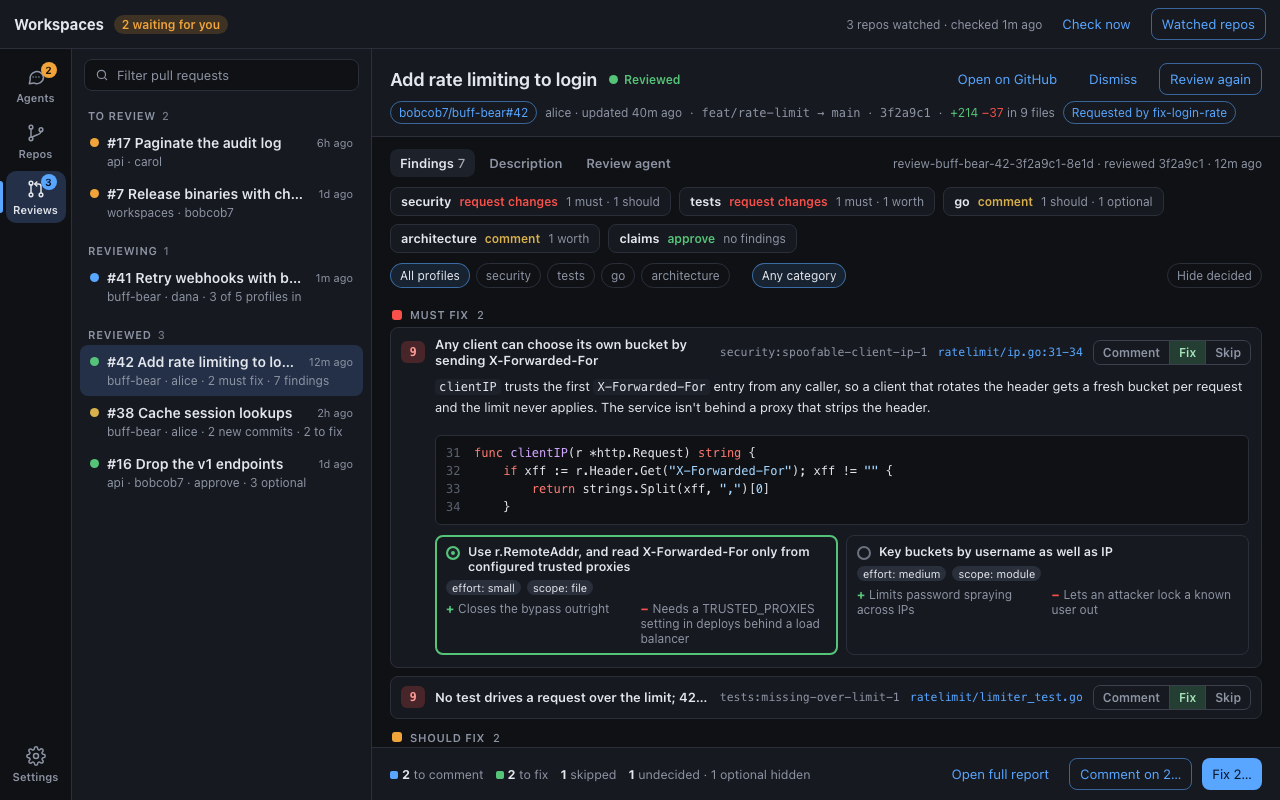
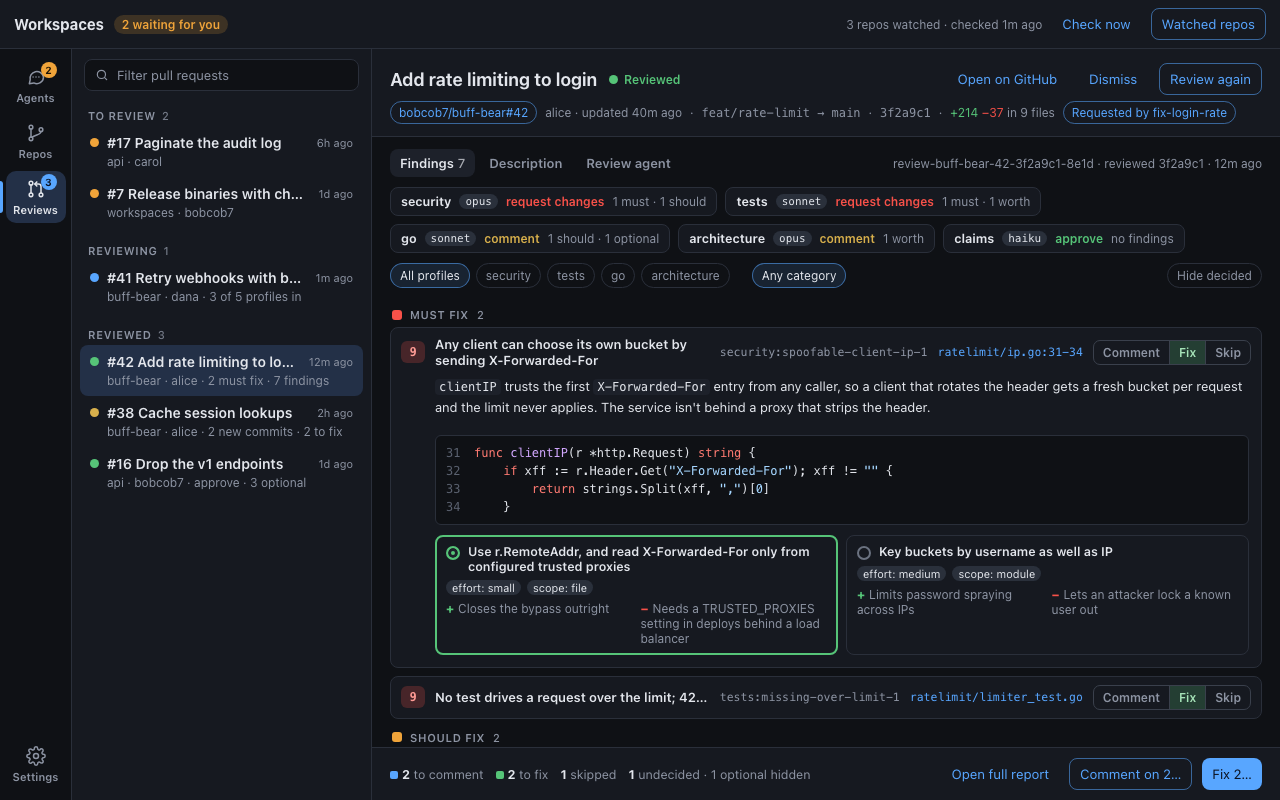
docs: set a model per reviewer profile and drop extra instructions
Settings list every profile with when it runs and its model, passed
to ws review start; the review task template is gone, with a focus
field per review instead. Profile tiles show their model, and the Fix
message points at ws review report --decided fix.

Claude-Session: https://claude.ai/code/session_012GA632Y7YmUDztDM46q2zq

Changed region(s): [[0.3125, 0.2188, 0.9062, 0.3125]]

diff --git a/docs/design/loam-refinery-reviews/mockups.html b/docs/design/loam-refinery-reviews/mockups.html
@@ -170,7 +170,7 @@ td.actions { text-align: right; }
 .check.on::after { content: ""; position: absolute; left: 3px; top: 0px; width: 4px; height: 8px; border: solid #0b1220; border-width: 0 2px 2px 0; transform: rotate(45deg); }
 .empty { flex: 1; display: grid; place-items: center; padding: 24px; color: var(--text-muted); text-align: center; }
 
-/* ---------- Review report (loam-refinery) ---------- */
+/* ---------- Review report ---------- */
 .content.tight { gap: 10px; padding: 12px 18px 0; }
 .profiles { display: flex; gap: 8px; flex-wrap: wrap; }
 .prof { display: flex; align-items: center; gap: 8px; padding: 6px 10px; border: 1px solid var(--border); border-radius: 8px; background: var(--panel); font-size: 12px; }
@@ -230,6 +230,8 @@ td.actions { text-align: right; }
 .radioRow { display: flex; gap: 10px; align-items: flex-start; padding: 10px 12px; border: 1px solid var(--border); border-radius: 8px; }
 .radioRow.sel { border: 2px solid var(--accent); padding: 9px 11px; }
 .radioRow .t { font-weight: 600; font-size: 13px; }
+.ptable td { padding: 5px 10px; white-space: nowrap; max-width: none; }
+.ptable .input { display: inline-block; padding: 4px 8px; font-size: 12px; }
 .steps { display: flex; flex-direction: column; gap: 6px; font-size: 13px; }
 .step { display: flex; align-items: center; gap: 10px; }
 </style>
@@ -340,7 +342,7 @@ const finding = ({ p, title, id, loc, d, open, body, code, suggs, done, decided,
 
 const band = (label, color, n) => `<div class="band"><span class="bar" style="background:${color}"></span>${label}<span class="count" style="font-weight:500">${n}</span></div>`;
 
-const prof = (name, verdict, cls, detail, extra = "") => `<div class="prof ${extra}"><b>${name}</b><span class="v ${cls}">${verdict}</span><span class="muted">${detail}</span></div>`;
+const prof = (name, verdict, cls, detail, model = "", extra = "") => `<div class="prof ${extra}"><b>${name}</b>${model ? `<span class="chip small mono">${model}</span>` : ""}<span class="v ${cls}">${verdict}</span><span class="muted">${detail}</span></div>`;
 
 const prHeader42 = (status = `<span class="status" style="color:var(--status-done)">${dot("var(--status-done)")}Reviewed</span>`) => `
   <section class="header">
@@ -350,11 +352,11 @@ const prHeader42 = (status = `<span class="status" style="color:var(--status-don
 
 const profileStrip = `
   <div class="profiles">
-    ${prof("security", "request changes", "rc", "1 must · 1 should")}
-    ${prof("tests", "request changes", "rc", "1 must · 1 worth")}
-    ${prof("go", "comment", "cm", "1 should · 1 optional", "")}
-    ${prof("architecture", "comment", "cm", "1 worth")}
-    ${prof("claims", "approve", "ok", "no findings")}
+    ${prof("security", "request changes", "rc", "1 must · 1 should", "opus")}
+    ${prof("tests", "request changes", "rc", "1 must · 1 worth", "sonnet")}
+    ${prof("go", "comment", "cm", "1 should · 1 optional", "sonnet")}
+    ${prof("architecture", "comment", "cm", "1 worth", "opus")}
+    ${prof("claims", "approve", "ok", "no findings", "haiku")}
   </div>`;
 
 const filterRow = (extra = "") => `
@@ -423,11 +425,11 @@ const reviewingScreen = () => shell(
    <div class="content tight">
      <div class="tabs">${tab("Findings", 4, true)}${tab("Description")}${tab("Review agent")}<span class="spacer"></span><span class="muted">review-buff-bear-41-9c04e2a-41b0 · started 6m ago</span></div>
      <div class="profiles">
-       ${prof("security", "comment", "cm", "1 should")}
-       ${prof("tests", "request changes", "rc", "1 must · 1 worth")}
-       ${prof("go", "comment", "cm", "1 optional")}
-       <div class="prof pending">${dot("var(--status-working)")}<b>architecture</b><span class="muted">not in yet</span></div>
-       <div class="prof pending">${dot("var(--status-working)")}<b>claims</b><span class="muted">not in yet</span></div>
+       ${prof("security", "comment", "cm", "1 should", "opus")}
+       ${prof("tests", "request changes", "rc", "1 must · 1 worth", "sonnet")}
+       ${prof("go", "comment", "cm", "1 optional", "sonnet")}
+       <div class="prof pending">${dot("var(--status-working)")}<b>architecture</b><span class="chip small mono">opus</span><span class="muted">not in yet</span></div>
+       <div class="prof pending">${dot("var(--status-working)")}<b>claims</b><span class="chip small mono">haiku</span><span class="muted">not in yet</span></div>
      </div>
      <div class="alert info">3 of 5 profiles have submitted. Findings appear as each one does; you can start deciding now.</div>
      <div class="findings">
@@ -443,7 +445,7 @@ const reviewingScreen = () => shell(
 );
 
 /* Incomplete: agent done, a profile missing */
-const incompleteBanner = `<div class="alert warn"><span><b>architecture</b> never submitted: the review agent finished without it. Its last message: "architecture subagent stopped: loam-refinery exit 3, working tree diverged". <span style="color:var(--accent);font-weight:600">Review again</span> or <span style="color:var(--accent);font-weight:600">Open agent</span>.</span></div>`;
+const incompleteBanner = `<div class="alert warn"><span><b>architecture</b> never submitted: the review agent finished without it. Its last message: "review-architecture stopped: ws review submit failed with review_unverifiable (working tree diverged)". <span style="color:var(--accent);font-weight:600">Review again</span> or <span style="color:var(--accent);font-weight:600">Open agent</span>.</span></div>`;
 
 /* Out of date + done + decided-at */
 const outdatedScreen = () => shell(
@@ -459,10 +461,10 @@ const outdatedScreen = () => shell(
      <div class="alert warn"><span>alice pushed 2 commits after this review: "Evict on logout" and "Cap the cache at 10k entries". These decisions stay with a41c9f2; <b>Review again</b> reviews e71b0d4 from scratch.</span></div>
      ${incompleteBanner}
      <div class="profiles">
-       ${prof("security", "request changes", "rc", "1 must")}
-       ${prof("tests", "comment", "cm", "1 should")}
-       ${prof("go", "comment", "cm", "1 optional")}
-       <div class="prof missing"><b>architecture</b><span>missing</span></div>
+       ${prof("security", "request changes", "rc", "1 must", "opus")}
+       ${prof("tests", "comment", "cm", "1 should", "sonnet")}
+       ${prof("go", "comment", "cm", "1 optional", "sonnet")}
+       <div class="prof missing"><b>architecture</b><span class="chip small mono">opus</span><span>missing</span></div>
      </div>
      <div class="findings">
        ${band("Must fix", "var(--danger)", 1)}
@@ -471,17 +473,17 @@ const outdatedScreen = () => shell(
        ${finding({ p: 7, title: "Cache grows without bound between TTL sweeps", id: "tests:unbounded-cache-1", loc: "session/cache.go:20", done: "✓ Commented · view on GitHub" })}
        ${band("Optional", "#3a404c", 2)}
        ${finding({ p: 2, title: "cacheTTL is exported but only used in the package", id: "go:exported-unused-1", loc: "session/cache.go:9", d: "skip" })}
-       ${finding({ p: 2, title: "Two tests share the name TestCache_Get", id: "#2:duplicate-name-1", loc: "session/cache_test.go:30", readonly: true })}
+       ${finding({ p: 2, title: "Two tests share the name TestCache_Get (superseded by tests' resubmission)", id: "#2:duplicate-name-1", loc: "session/cache_test.go:30", readonly: true })}
      </div>
    </div>
-   ${actionBar(`<span><b>1</b> skipped · 2 done · 1 read-only (unprofiled)</span>`, `<button class="btn">Open full report</button><button class="btn outlined" style="opacity:.45">Comment…</button><button class="btn contained" style="opacity:.45">Fix…</button>`)}`,
+   ${actionBar(`<span><b>1</b> skipped · 2 done · 1 read-only (superseded)</span>`, `<button class="btn">Open full report</button><button class="btn outlined" style="opacity:.45">Comment…</button><button class="btn contained" style="opacity:.45">Fix…</button>`)}`,
 );
 
 /* Comment preview */
 const pvComment = (path, lines, prio, cat, body, sugg, id) => `
   <div class="pv">
     <div class="pvHead"><span style="color:var(--accent)">${path}</span><span>${lines}</span><span class="spacer"></span><span class="chip small">line comment</span><button class="btn small">Edit</button></div>
-    <div class="pvBody"><b>${prio} · ${cat}</b> — ${body}${sugg ? `<div style="margin-top:4px"><b>Suggested:</b> ${sugg}</div>` : ""}<div class="foot">loam-refinery · <span class="mono">${id}</span></div></div>
+    <div class="pvBody"><b>${prio} · ${cat}</b> — ${body}${sugg ? `<div style="margin-top:4px"><b>Suggested:</b> ${sugg}</div>` : ""}<div class="foot">ws review · <span class="mono">${id}</span></div></div>
   </div>`;
 
 const commentDialog = () => `
@@ -505,18 +507,14 @@ const fixDialog = () => `
   <div class="scrim"><div class="dialog wide">
     <h2>Fix 2 findings</h2>
     <div class="dbody" style="gap:12px">
-      <div class="radioRow sel"><span class="radio" style="border-color:var(--accent);background:var(--accent);box-shadow:inset 0 0 0 3px #1d212a"></span><div style="flex:1"><div class="t">Send to fix-login-rate <span class="chip small" style="margin-left:6px">${dot("var(--status-idle)")} idle</span></div><div class="muted">The agent that requested this review. It has <span class="mono">feat/rate-limit</span> checked out; the findings arrive as a message in its conversation.</div></div></div>
+      <div class="radioRow sel"><span class="radio" style="border-color:var(--accent);background:var(--accent);box-shadow:inset 0 0 0 3px #1d212a"></span><div style="flex:1"><div class="t">Send to fix-login-rate <span class="chip small" style="margin-left:6px">${dot("var(--status-idle)")} idle</span></div><div class="muted">The agent that requested this review. It has <span class="mono">feat/rate-limit</span> checked out; it reads your decisions with <span class="mono">ws review report --decided fix</span>.</div></div></div>
       <div class="radioRow"><span class="radio"></span><div style="flex:1"><div class="t">Start a fix agent</div><div class="muted mono" style="font-size:12px">ws claude --name fix-buff-bear-42-3f2a9c1 github.com/bobcob7/buff-bear@feat/rate-limit</div></div></div>
-      <div class="field multi"><label>Message</label>Fix these findings from the review of bobcob7/buff-bear#42 at 3f2a9c1.
-Full report: ws review report review-buff-bear-42-3f2a9c1-8e1d --json
+      <div class="field multi"><label>Message</label>Fix the 2 findings decided "fix" in the review of bobcob7/buff-bear#42 at 3f2a9c1:
+  security:spoofable-client-ip-1  Any client can choose its own bucket by sending X-Forwarded-For
+  tests:missing-over-limit-1      No test drives a request over the limit
 
-1. security:spoofable-client-ip-1 (priority 9, security) ratelimit/ip.go:31-34
-   clientIP trusts the first X-Forwarded-For entry from any caller…
-   Use this fix: Use r.RemoteAddr, and read X-Forwarded-For only from configured trusted proxies (small, file)
-
-2. tests:missing-over-limit-1 (priority 9, testing) ratelimit/limiter_test.go
-   No test drives a request over the limit…
-   Choose a fix.
+The chosen fixes and notes:
+  ws review report review-buff-bear-42-3f2a9c1-8e1d --decided fix --json
 
 When done, push, and start a new review with: ws review start --pr 42 buff-bear</div>
     </div>
@@ -543,10 +541,9 @@ const requesterScreen = () => shell(
    <div class="convo">
      <div class="tool"><b>Bash</b>(ws review wait review-buff-bear-42-3f2a9c1-8e1d --json) <span style="color:var(--status-done)">· background · exited 0</span></div>
      <div class="msg">The review is in: security and tests request changes, two must-fix findings. I'll wait for your call on which to address before changing anything.</div>
-     <div class="msg user" style="white-space:pre-wrap">Fix these findings from the review of bobcob7/buff-bear#42 at 3f2a9c1.
-1. security:spoofable-client-ip-1 … Use this fix: Use r.RemoteAddr, …
-2. tests:missing-over-limit-1 … Choose a fix.</div>
-     <div class="tool"><b>Read</b>(ratelimit/ip.go)</div>
+     <div class="msg user" style="white-space:pre-wrap">Fix the 2 findings decided "fix" in the review of bobcob7/buff-bear#42 at 3f2a9c1: …
+ws review report review-buff-bear-42-3f2a9c1-8e1d --decided fix --json</div>
+     <div class="tool"><b>Bash</b>(ws review report review-buff-bear-42-3f2a9c1-8e1d --decided fix --json)</div>
      <div class="msg">Switching <code class="mono">clientIP</code> to <code class="mono">r.RemoteAddr</code> with a <code class="mono">TRUSTED_PROXIES</code> list, then adding an over-the-limit test that checks the 429 and Retry-After.</div>
    </div>
    <div class="reply"><div class="box">Message the agent (Enter to send, Shift+Enter for a new line)</div><button class="btn">Send</button></div>`,
@@ -564,17 +561,30 @@ const settingsScreen = () => `
       <main class="main"><div class="settings">
         <h1>Reviews</h1>
         <div class="setting"><div class="label"><div>Check for pull requests</div><div class="muted">How often watched repos are checked with <span class="mono">gh</span>.</div></div><div class="control"><span class="input">Every 5 minutes ▾</span></div></div>
-        <div class="setting"><div class="label"><div>Reviewer profiles</div><div class="muted">loam-refinery profiles every review runs, one subagent each. Language profiles are added when the diff has those files.</div></div><div class="control" style="flex-wrap:wrap;gap:6px">
-          <span class="fchip on">architecture ✕</span><span class="fchip on">claims ✕</span><span class="fchip on">security ✕</span><span class="fchip on">tests ✕</span><span class="fchip">+ compatibility</span><span class="fchip">+ efficiency</span>
-        </div></div>
+        <div class="setting" style="flex-direction:column;gap:10px"><div class="label" style="width:auto"><div>Reviewer profiles</div><div class="muted">Each runs as its own subagent on the model chosen here. <b>Always</b> runs on every review; <b>When files match</b> runs when the diff touches its files. From <span class="mono">ws review profiles</span>.</div></div>
+          <table class="ptable">
+            <thead><tr><th style="width:24%">Profile</th><th style="width:30%">Runs</th><th style="width:20%">Model</th><th>Files</th></tr></thead>
+            <tbody>
+              ${[
+                ["architecture", "Always", "opus", ""],
+                ["claims", "Always", "haiku", ""],
+                ["security", "Always", "opus", ""],
+                ["tests", "Always", "sonnet", ""],
+                ["go", "When files match", "sonnet", "*.go, go.mod"],
+                ["typescript", "When files match", "sonnet", "*.ts, *.tsx"],
+                ["compatibility", "Off", "Default", ""],
+                ["efficiency", "Off", "Default", ""],
+              ].map(([n, w, m, f]) => `<tr style="${w === "Off" ? "opacity:.55" : ""}"><td style="font-weight:600">${n}</td><td><span class="input">${w} ▾</span></td><td><span class="input">${m} ▾</span></td><td class="mono muted" style="font-size:12px">${f}</td></tr>`).join("")}
+            </tbody>
+          </table>
+        </div>
+        <div class="setting"><div class="label"><div>Review agent</div><div class="muted">Model and permission mode of the agent that runs the subagents. It runs <span class="mono">ws review</span> and <span class="mono">git</span>; allow them in Claude Code's permissions, or it waits for you.</div></div><div class="control"><span class="input">Default ▾</span><span class="input">default ▾</span></div></div>
         <div class="setting"><div class="label"><div>Auto-review only</div><div class="muted">Which new PRs in an auto-review repo start a review.</div></div><div class="control" style="flex-direction:column;align-items:flex-start;gap:8px">
           <span class="row"><span class="check on"></span>Skip drafts</span>
           <span class="row"><span class="check on"></span>Skip pull requests I opened</span>
           <span class="row"><span class="check"></span>Only when my review is requested</span>
         </div></div>
         <div class="setting"><div class="label"><div>At most</div><div class="muted">Auto-reviews running at once; the rest wait.</div></div><div class="control"><span class="input">2</span><span class="muted">review agents</span></div></div>
-        <div class="setting"><div class="label"><div>Extra instructions</div><div class="muted">Added to every review under "From the requester". The review itself is <span class="mono">ws review</span>'s; <span class="mono">{title}</span>, <span class="mono">{author}</span>, and <span class="mono">{body}</span> are filled in.</div></div><div class="control"><div class="textarea">Pay attention to anything touching auth or billing.</div></div></div>
-        <div class="setting"><div class="label"><div>Model and permission mode</div><div class="muted">The review agent runs <span class="mono">loam-refinery</span> and <span class="mono">git</span>; allow them in Claude Code's permissions, or it waits for you.</div></div><div class="control"><span class="input">Default ▾</span><span class="input">default ▾</span></div></div>
       </div></main>
     </div>
   </div>`;

diff --git a/docs/design/loam-refinery-reviews/report.md b/docs/design/loam-refinery-reviews/report.md
@@ -1,6 +1,6 @@
 # Review reports in the desktop app: UI/UX
 
-How the Reviews section shows a loam-refinery review and lets you decide,
+How the Reviews section shows a review and lets you decide,
 finding by finding, what to comment on, what to fix, and what to skip.
 The flow and decisions behind it are in the [design](README.md) and ADRs
 [0039](../../adrs/0039-ws-review-command.md) to
@@ -34,9 +34,9 @@ It's a cross-link: it switches to Agents and selects that agent.
 
 ## Profiles strip
 
-One tile per profile in the review record, plus any the agent added:
-the name, its verdict (red *request changes*, yellow *comment*, green
-*approve*), and its findings by band (`1 must · 1 should`).
+One tile per profile in the review record: the name, the model its
+subagent ran on, its verdict (red *request changes*, yellow *comment*,
+green *approve*), and its findings by band (`1 must · 1 should`).
 
 - A profile with no submission yet is dashed, with a blue dot and "not
   in yet", while the agent works.
@@ -47,7 +47,7 @@ the name, its verdict (red *request changes*, yellow *comment*, green
 
 ## Findings
 
-Grouped by band, in loam-refinery's priority ladder:
+Grouped by band, in the review format's priority ladder:
 
 | Band | Priorities | Marker |
 | ---- | ---------- | ------ |
@@ -81,11 +81,15 @@ Clicking the row (anywhere but the control and the link) expands it:
 - a note field ("Add a note for the fixer or the comment"), collapsed
   until clicked.
 
-**Read-only findings.** A comment whose id is `#N:…` (from a submission
-with no profile) shows dimmed with "read-only" where the control would
-be; it can't carry a decision ([0040](../../adrs/0040-desktop-renders-report-and-keeps-triage.md)).
-Superseded submissions are hidden; **Show superseded** in the filter row's
-overflow brings them back, also read-only.
+**Decisions are saved as you make them**, with `ws review decide`, in the
+review's store ([0040](../../adrs/0040-review-decisions-kept-with-findings.md)).
+They survive restarts and removing the review agent, and agents see them
+in `ws review report`.
+
+**Read-only findings.** Superseded submissions (a profile that submitted
+again) are hidden; **Show superseded** in the filter row's overflow brings
+them back, dimmed, with ids like `#2:…` and "read-only" where the control
+would be. They can't carry a decision.
 
 **Done findings.** A finding that was acted on shows the result in place
 of the control: "✓ Commented · view on GitHub" (a link to the review) or
@@ -150,10 +154,10 @@ keeps the dialog open with `gh`'s message in an Alert, and posts nothing.
   - **Start a fix agent**, with the `ws claude` command it will run (on
     the PR's branch, or a `fix/pr-<n>-<sha7>` branch for a fork PR).
     Model and permission mode come from the Reviews settings.
-- **Message**: the text that will be sent, editable: each finding's id,
-  priority, category, anchor, a short body, the chosen fix (or "Choose a
-  fix"), your note, and the `ws review report` and `ws review start`
-  commands.
+- **Message**: the text that will be sent, editable. It stays short:
+  the findings' ids and titles, and `ws review report <review> --decided
+  fix --json`, which gives the agent the full findings with your chosen
+  fixes and notes; then `ws review start` for the next review.
 - **Send to `<requester>`** or **Start fix agent**. After sending, the
   findings show as done, and a Snackbar offers **Open agent**.
 
@@ -167,7 +171,7 @@ The requester sees the message as a user turn in its conversation:
 
 The Findings tab appears as soon as the first profile submits; the
 report is re-read every 30 s while the agent works
-([0040](../../adrs/0040-desktop-renders-report-and-keeps-triage.md)).
+([0040](../../adrs/0040-review-decisions-kept-with-findings.md)).
 A blue Alert says "3 of 5 profiles have submitted…", and decisions can be
 made already. Comment and Fix stay disabled until the agent is done, so a
 fix isn't sent while findings are still arriving. The list row's summary
@@ -188,27 +192,35 @@ reads `3 of 5 profiles in`.
 
 ## Settings
 
-![Reviews settings with profiles and extra instructions](img/report-settings.png)
+![Reviews settings: profiles, models, and when each runs](img/report-settings.png)
 
-The Reviews group changes in two places:
+The Reviews group changes in three places:
 
-- **Reviewer profiles**: chips for the profiles each review runs, with
-  ✕ to remove and `+ <name>` for the others from `loam-refinery prime
-  --list`. Passed as `--profile` to `ws review start`; empty means
-  `ws`'s default.
-- **Review task** becomes **Extra instructions**: free text added to
-  `ws review`'s prompt, with the same `{title}`, `{author}`, and `{body}`
-  fields. A non-default template from before is kept here, with a note
-  that the review itself is now `ws review`'s.
+- **Reviewer profiles** is a table of every profile `ws review profiles`
+  lists, built in or added under `CONFIG_DIR/review/profiles/`:
+  - **Runs**: *Always*, *When files match* (with the profile's patterns,
+    such as `*.go, go.mod`, shown beside it), or *Off*.
+  - **Model**: *Default* (the review agent's), an alias (`opus`,
+    `sonnet`, `haiku`, `fable`), or a full model id typed in.
 
-The permission mode's hint says the review agent runs `loam-refinery` and
-`git`, so they must be allowed or it waits for you.
+  The table starts from `ws`'s defaults and `config.toml`. Changes are
+  kept in `desktop.json` and passed to every review as `--profile
+  NAME:MODEL` and `--auto NAME:MODEL`
+  ([0038](../../adrs/0038-review-fans-out-to-profile-subagents.md)).
+  **Reset to defaults** under the table drops them.
+- **Review task is removed.** `ws review` writes the review's prompt
+  itself, so a template isn't needed. A request for focus belongs to one
+  review, not every one: **Edit before starting** keeps a *Focus* field
+  for that, which goes after `--` as `ws review start`'s focus text.
+- **Review agent** holds the model and permission mode of the agent that
+  starts the subagents. Its hint says it runs `ws review` and `git`, so
+  they must be allowed or it waits for you.
 
 ## Empty and error states
 
 | State | Shows |
 | ----- | ----- |
-| `loam-refinery` missing or too old | Alert in the Findings tab with `ws`'s message and the `go install` command; Review buttons disabled with the same reason |
+| A profile's subagent failed to submit | The profile's tile is "missing" and the Alert quotes the review agent's last message, which names `ws`'s error (`review_unverifiable`, `review_invalid`) |
 | Review finished, no submissions | "The review agent finished without submitting a review." with **Open agent** and **Review again** |
 | Every profile approves, no findings | Green "No findings from 5 profiles." with the profiles strip |
 | `ws review report` fails | Alert with `ws`'s error code and message; the Review agent tab still works |
